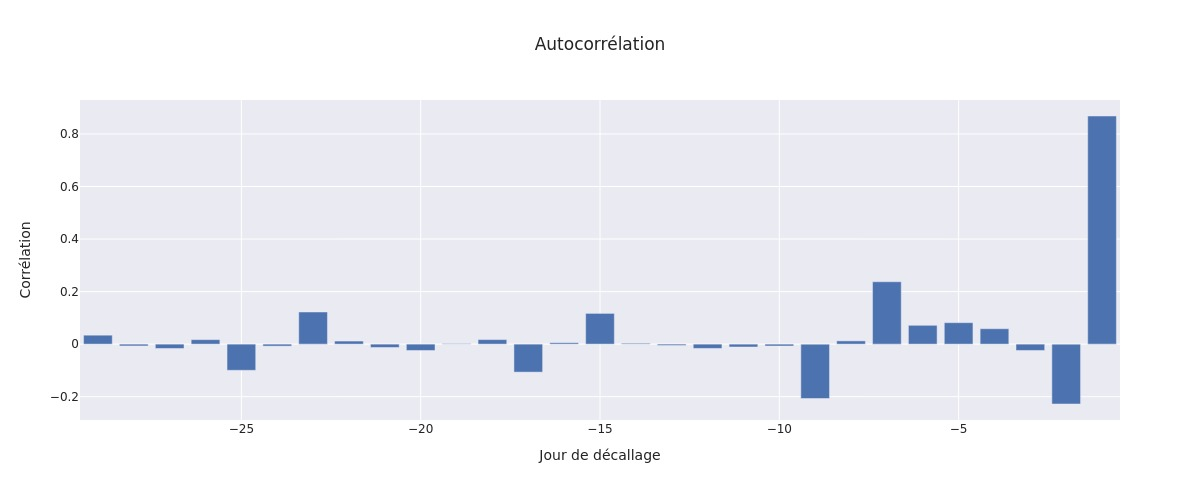
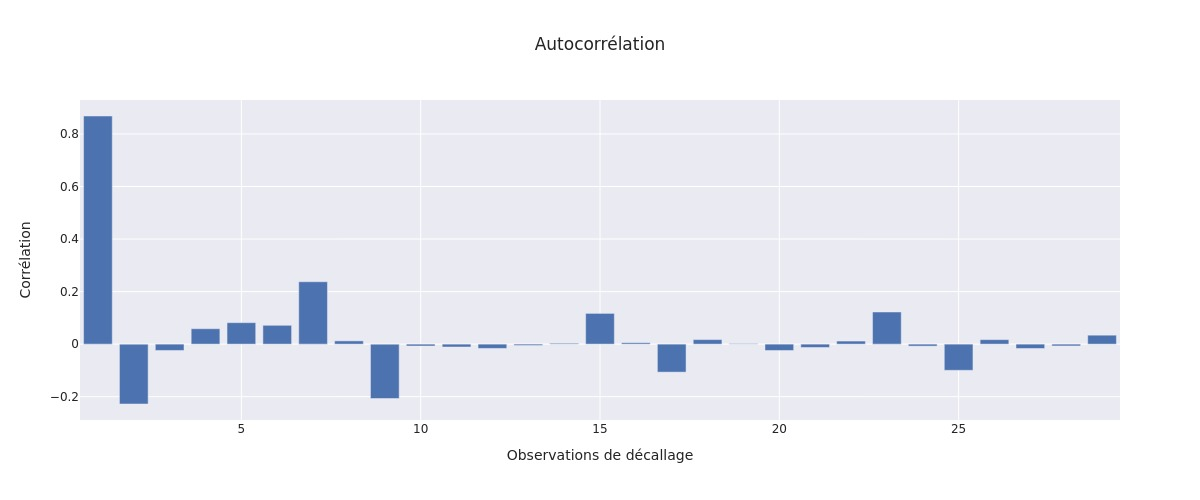
normalize per variance

diff --git a/build_model.py b/build_model.py
@@ -6,6 +6,7 @@ import plotly.express as px
 from sklearn.linear_model import Ridge
 from sklearn.metrics import mean_squared_error, mean_absolute_error, r2_score
 from sklearn.model_selection import train_test_split
+from scipy import stats
 
 
 template = "seaborn"
@@ -55,15 +56,14 @@ def create_model(data: pd.DataFrame, date_col: str, value_col: str, output_dir: 
     text += "### Modèle sur split aléatoire\n\n"
     text += "|Catégorie|MSE|R2|MAE|\n"
     text += "|---------|---|--|---|\n"
-    text += f'|train|{out1["mse_train"]}|{out1["r2_train"]}|{out1["mae_train"]}|\n'
-    text += f'|test|{out1["mse_test"]}|{out1["r2_test"]}|{out1["mae_test"]}|\n'
-
+    text += f'|train|{number_format(out1["mse_train"])}|{number_format(out1["r2_train"])}|{number_format(out1["mae_train"])}|\n'
+    text += f'|test|{number_format(out1["mse_test"])}|{number_format(out1["r2_test"])}|{number_format(out1["mae_test"])}|\n\n'
 
     text += "\n ### Modèle sur split temporel\n\n"
     text += "|Catégorie|MSE|R2|MAE|\n"
     text += "|---------|---|--|---|\n"
-    text += f'|train|{out2["mse_train"]}|{out2["r2_train"]}|{out2["mae_train"]}|\n'
-    text += f'|test|{out2["mse_test"]}|{out2["r2_test"]}|{out2["mae_test"]}|\n\n'
+    text += f'|train|{number_format(out2["mse_train"])}|{number_format(out2["r2_train"])}|{number_format(out2["mae_train"])}|\n'
+    text += f'|test|{number_format(out2["mse_test"])}|{number_format(out2["r2_test"])}|{number_format(out2["mae_test"])}|\n\n'
 
     model = Ridge().fit(x, y)
     predictions = model.predict(x)
@@ -112,13 +112,13 @@ def create_model(data: pd.DataFrame, date_col: str, value_col: str, output_dir: 
     text += "\n ### Confidency \n"
     text += "|Seuil|Erreur|\n"
     text += "|-----|------|\n"
-    text += f"|75%|{residuals_post[int(len(residuals_post)*0.75)]}|\n"
-    text += f"|80%|{residuals_post[int(len(residuals_post)*0.8)]}|\n"
-    text += f"|90%|{residuals_post[int(len(residuals_post)*0.90)]}|\n"
-    text += f"|95%|{residuals_post[int(len(residuals_post)*0.95)]}|\n"
-    text += f"|99%|{residuals_post[int(len(residuals_post)*0.99)]}|\n"
-    text += f"|99.5%|{residuals_post[int(len(residuals_post)*0.995)]}|\n"
-    text += f"|99.9%|{residuals_post[int(len(residuals_post)*0.999)]}|\n"
+    text += f"|75%|{number_format(residuals_post[int(len(residuals_post)*0.75)])}|\n"
+    text += f"|80%|{number_format(residuals_post[int(len(residuals_post)*0.8)])}|\n"
+    text += f"|90%|{number_format(residuals_post[int(len(residuals_post)*0.90)])}|\n"
+    text += f"|95%|{number_format(residuals_post[int(len(residuals_post)*0.95)])}|\n"
+    text += f"|99%|{number_format(residuals_post[int(len(residuals_post)*0.99)])}|\n"
+    text += f"|99.5%|{number_format(residuals_post[int(len(residuals_post)*0.995)])}|\n"
+    text += f"|99.9%|{number_format(residuals_post[int(len(residuals_post)*0.999)])}|\n"
 
     data["predictions"] = predictions
     data["residuals"] = residuals
@@ -154,15 +154,26 @@ def create_model(data: pd.DataFrame, date_col: str, value_col: str, output_dir: 
     f.write_image(f"{output_dir}/year_residuals.jpeg", format="jpeg")
     text += "![image](./year_residuals.jpeg)  \n"
 
-    text += "\n ## Corrélation des résidus \n"
+    text += "\n ## Corrélation temporelle des résidus \n"
     model, pred = residual_autocorrelation(residuals)
     f = px.bar(
-        x=range(-len(model.coef_), 0), y=model.coef_, title="Autocorrélation", template=template
+        x=range(1, len(model.coef_)+1), y=list(reversed(model.coef_)), title="Autocorrélation", template=template
     ).update_layout(
-        xaxis_title="Jour de décallage", yaxis_title="Corrélation", height=500, width=1200,
+        xaxis_title="Observations de décallage", yaxis_title="Corrélation", height=500, width=1200,
     )
     f.write_image(f"{output_dir}/residuals_corelation.jpeg", format="jpeg")
+
+    correl_score = [stats.pearsonr(residuals[:-i], residuals[i:])[0] for i in range(1, 50)]
+    f = px.bar(
+        x=range(1, 50), y=correl_score, title="Autocorrélation partielle", template=template
+    ).update_layout(
+        xaxis_title="Observations de décallage", yaxis_title="Corrélation", height=500, width=1200,
+    )
+    f.write_image(f"{output_dir}/residuals_corelation2.jpeg", format="jpeg")
+
     text += "![image](./residuals_corelation.jpeg)  \n"
-    text += f"R2 de prédictions des résidus: {r2_score(residuals[30:], pred)}   \n"
-    text += f"R2 de prédiction final: {r2_score(data[value_col].values[30:], pred+predictions[30:])}   \n"
+    text += "![image](./residuals_corelation2.jpeg)  \n"
+    text += f"R2 de base: {number_format(r2_score(data[value_col].values, predictions))}   \n"
+    text += f"R2 de prédictions des résidus: {number_format(r2_score(residuals[30:], pred))}   \n"
+    text += f"R2 de prédiction final: {number_format(r2_score(data[value_col].values[30:], pred+predictions[30:]))}   \n"
     return text + "\n"

diff --git a/data_summary.py b/data_summary.py
@@ -26,7 +26,8 @@ def overall_presentation(data: pd.DataFrame, date_col: str, value_col: str, outp
     text += f"Durée moyenne entre les observations : {duration_format(np.mean(diff))} \n\n"
     text += f"Variance de la fréquence : {duration_format(np.std(diff))} \n\n"
     text += f"Valeur moyenne : {np.mean(data[value_col].values)} \n\n"
-    text += f"Variance des valeurs : {number_format(number_format(np.std(data[value_col].values)))} ({np.std(data[value_col].values)/np.mean(data[value_col].values)*100} %)\n\n"
+    var = np.std(data[value_col].values)
+    text += f"Variance des valeurs : {number_format(var)} ({var/np.mean(data[value_col].values)*100} %)\n\n"
     text += "![image](./historical.jpeg) \n\n\n"
     return text
 
@@ -48,6 +49,7 @@ def month_importance(data: pd.DataFrame, date_col: str, value_col: str, output_d
     )
     f.write_image(f"{output_dir}/month_avg.jpeg", format="jpeg")
     avg_mean, avg_var = np.mean(agg[value_col].values), np.std(agg[value_col].values)
+    global_var = np.std(data[value_col].values)
 
     text = "## Impact du mois \n"
     text += "![image](./month_count.jpeg) \n"
@@ -55,7 +57,7 @@ def month_importance(data: pd.DataFrame, date_col: str, value_col: str, output_d
     text += f"Variance du nombre de points par jour: {number_format(count_var)} ({int(count_var/count_mean*100)} %) \n\n"
     text += "![image](./month_avg.jpeg) \n\n"
     text += f"Valeur moyenne quotidienne: {avg_mean} \n\n"
-    text += f"Variance des moyennes quotidiennes {number_format(avg_var)} ({int(avg_var/avg_mean*100)} %) \n"
+    text += f"Variance des moyennes quotidiennes {number_format(avg_var)} ({int(avg_var/global_var*100)} %) \n"
     return text + "\n"
 
 
@@ -76,6 +78,7 @@ def weekday_importance(data: pd.DataFrame, date_col: str, value_col: str, output
     )
     f.write_image(f"{output_dir}/day_avg.jpeg", format="jpeg")
     avg_mean, avg_var = np.mean(agg[value_col].values), np.std(agg[value_col].values)
+    global_var = np.std(data[value_col].values)
 
     text = "## Impact du jour de la semaine \n"
     text += "![image](./day_count.jpeg) \n"
@@ -83,7 +86,7 @@ def weekday_importance(data: pd.DataFrame, date_col: str, value_col: str, output
     text += f"Variance du nombre de points par mois: {number_format(count_var)} ({int(count_var/count_mean*100)} %) \n\n"
     text += "![image](./day_avg.jpeg) \n\n"
     text += f"Valeur moyenne mensuelle: {avg_mean} \n\n"
-    text += f"Variance des moyennes mensuelles {number_format(avg_var)} ({int(avg_var/avg_mean*100)} %) \n"
+    text += f"Variance des moyennes mensuelles {number_format(avg_var)} ({int(avg_var/global_var*100)} %) \n"
     return text + "\n"
 
 
@@ -104,11 +107,12 @@ def year_importance(data: pd.DataFrame, date_col: str, value_col: str, output_di
     )
     f.write_image(f"{output_dir}/year_avg.jpeg", format="jpeg")
     avg_mean, avg_var = np.mean(agg[value_col].values), np.std(agg[value_col].values)
+    global_var = np.std(data[value_col].values)
 
     text = "## Impact de l'année \n"
     text += "![image](./year_count.jpeg) \n"
     text += f"Nombre de point moyen par ans: {count_mean} \n\n"
-    text += f"Variance du nombre de points par ans: {count_var} ({int(count_var/count_mean*100)} %) \n\n"
+    text += f"Variance du nombre de points par ans: {count_var} ({int(count_var/global_var*100)} %) \n\n"
     text += "![image](./year_avg.jpeg) \n\n"
     text += f"Valeur moyenne annuelle: {avg_mean} \n\n"
     text += f"Variance des moyennes annuelles {avg_var} ({int(avg_var/avg_mean*100)} %) \n"

diff --git a/summary/readme.md b/summary/readme.md
@@ -22,7 +22,7 @@ Variance du nombre de points par jour: 140.47 (3 %)
 
 Valeur moyenne quotidienne: 12.391581856240213 
 
-Variance des moyennes quotidiennes 5.65 (45 %) 
+Variance des moyennes quotidiennes 5.65 (77 %) 
 
 ## Impact du jour de la semaine 
 ![image](./day_count.jpeg) 
@@ -34,13 +34,13 @@ Variance du nombre de points par mois: 5.56 (0 %)
 
 Valeur moyenne mensuelle: 12.44316310048823 
 
-Variance des moyennes mensuelles 0.11 (0 %) 
+Variance des moyennes mensuelles 0.11 (1 %) 
 
 ## Impact de l'année 
 ![image](./year_count.jpeg) 
 Nombre de point moyen par ans: 2916.6428571428573 
 
-Variance du nombre de points par ans: 6.409893500977808 (0 %) 
+Variance du nombre de points par ans: 6.409893500977808 (87 %) 
 
 ![image](./year_avg.jpeg) 
 
@@ -56,15 +56,16 @@ Variance des moyennes annuelles 0.8287797173618122 (6 %)
 
 |Catégorie|MSE|R2|MAE|
 |---------|---|--|---|
-|train|15.181350033309942|0.7159215804257597|3.104540226650126|
-|test|15.215089459617326|0.7048164480679842|3.111540755786694|
+|train|15.17|0.71|3.1|
+|test|15.22|0.7|3.11|
+
 
  ### Modèle sur split temporel
 
 |Catégorie|MSE|R2|MAE|
 |---------|---|--|---|
-|train|15.37829198940564|0.7109152865859404|3.1289863217236418|
-|test|14.521872042042581|0.7208576570345686|3.027260014265633|
+|train|15.37|0.71|3.12|
+|test|14.52|0.72|3.02|
 
 ![image](./predictions.jpeg)  
 ![image](./residuals.jpeg)  
@@ -74,13 +75,13 @@ Variance des moyennes annuelles 0.8287797173618122 (6 %)
  ### Confidency 
 |Seuil|Erreur|
 |-----|------|
-|75%|4.447643172986998|
-|80%|4.951348664298468|
-|90%|6.402697852627905|
-|95%|7.6974920760081815|
-|99%|10.111906673146226|
-|99.5%|11.046615803426326|
-|99.9%|12.948903041112427|
+|75%|4.44|
+|80%|4.95|
+|90%|6.4|
+|95%|7.69|
+|99%|10.11|
+|99.5%|11.04|
+|99.9%|12.94|
 
  ## Résidus par variables 
 
@@ -88,8 +89,10 @@ Variance des moyennes annuelles 0.8287797173618122 (6 %)
 ![image](./day_residuals.jpeg)  
 ![image](./year_residuals.jpeg)  
 
- ## Corrélation des résidus 
+ ## Corrélation temporelle des résidus 
 ![image](./residuals_corelation.jpeg)  
-R2 de prédictions des résidus: 0.7382785827004958   
-R2 de prédiction final: 0.9250081883274379   
+![image](./residuals_corelation2.jpeg)  
+R2 de base: 0.71   
+R2 de prédictions des résidus: 0.73   
+R2 de prédiction final: 0.92   
 
